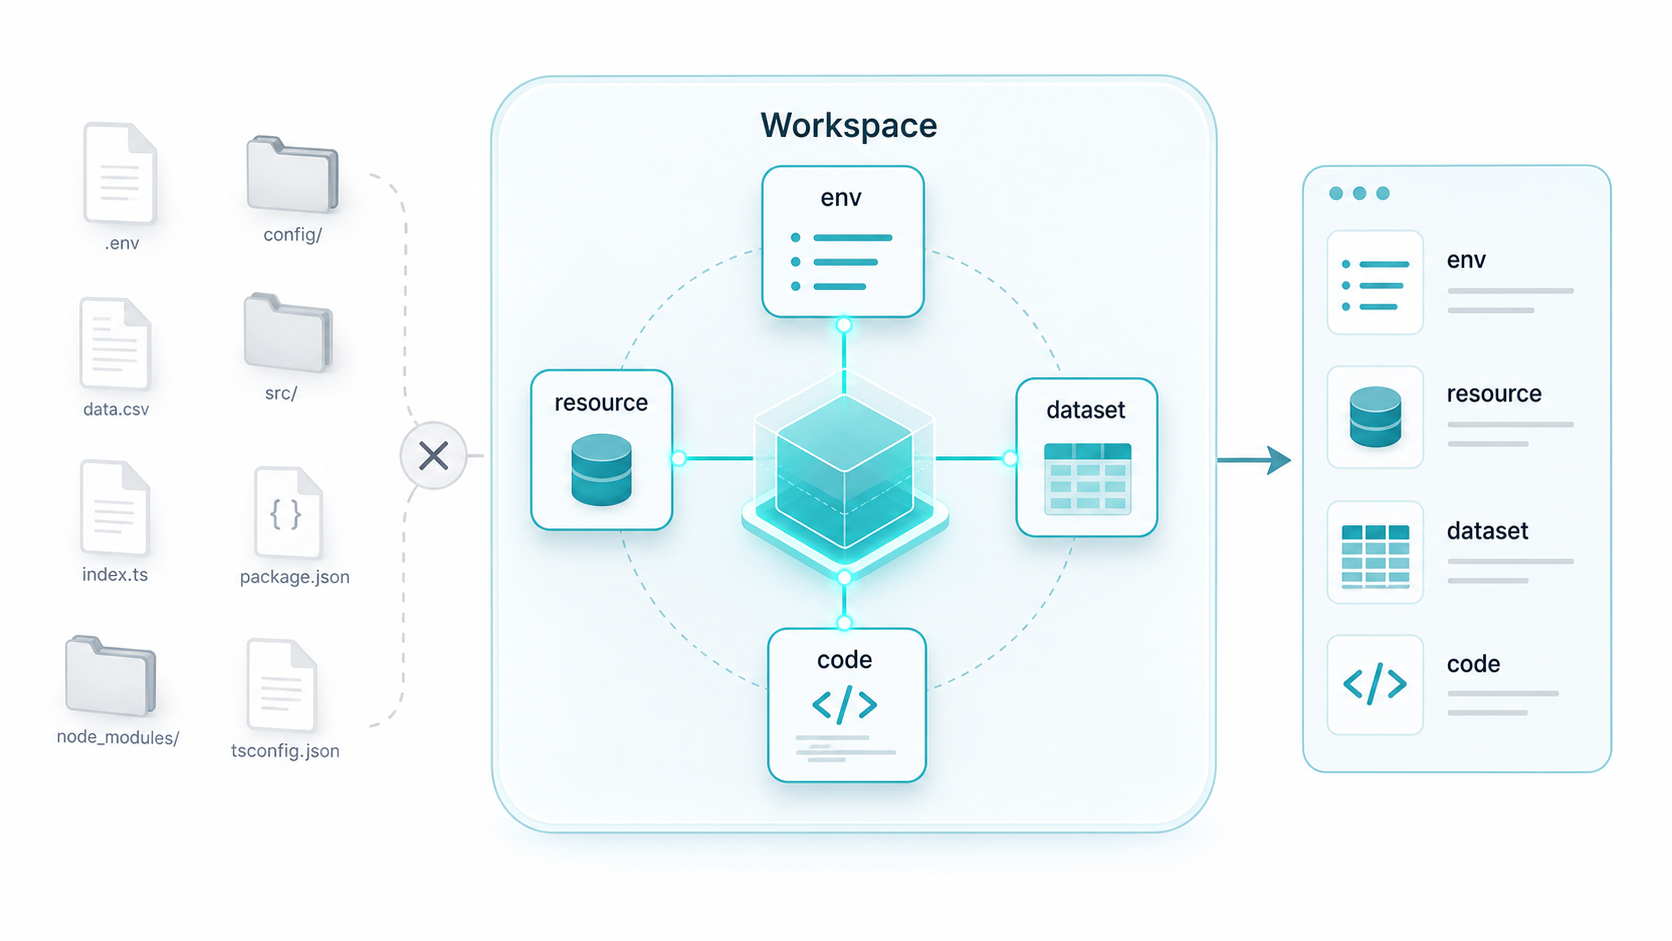
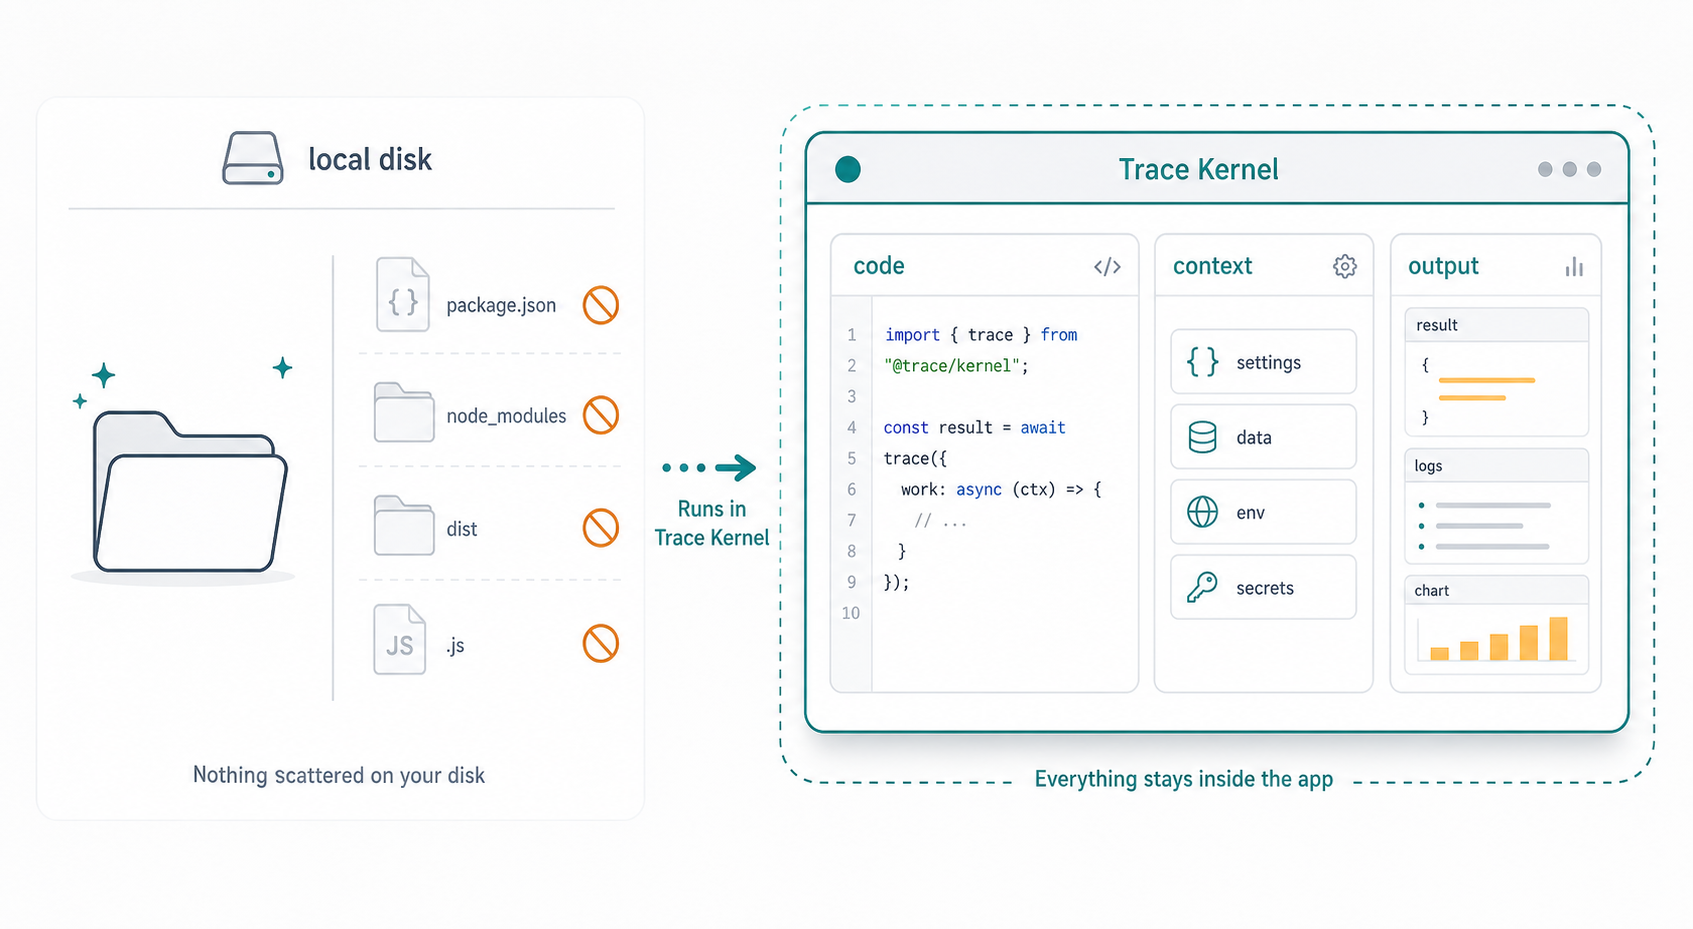
save

diff --git a/homepage/src/styles/starlight.css b/homepage/src/styles/starlight.css
@@ -104,6 +104,12 @@
   width: min(100%, 48rem);
 }
 
+.hero .tagline {
+  font-size: clamp(1.25rem, 1.02rem + 0.52vw, 1.52rem);
+  line-height: 1.8;
+  max-width: 48rem;
+}
+
 .hero .hero-video {
   display: block;
   width: 100%;

diff --git a/homepage/src/content/docs/overview/workflow.md b/homepage/src/content/docs/overview/workflow.md
@@ -13,9 +13,9 @@ Trace Kernelの基本ワークフローは、ワークスペースを開き、co
 5. 必要な結果をコピーして使う
 ```
 
-> **画像メモ:** このページの先頭には、上記5ステップを1本で見せる短いGIFがあるとよい。画面の詳細説明ではなく、Trace Kernelの作業導線を俯瞰できるもの。
+![Trace Kernelの基本ワークフロー](/images/workflow-overview.png)
 
-## 1. ワークスペースを作る
+## 1. ワークスペースを開く
 
 ワークスペースは、Trace Kernelで扱う作業状態です。開始時は、空白のワークスペースから始めるか、保存済みの`.trk`ファイルを開いて再開します。
 
@@ -30,6 +30,12 @@ workspace
 同じ作業を後で再利用したい場合は、ワークスペースを`.trk`ファイルとして保存できます。
 
 ![スタート画面](/screen_shot/スタート.JPG)
+
+ワークスペースを開くと、ワークスペース管理画面に移動します。ここで、プログラムから使う入力データや固定値を `context` として登録し、実行するTypeScriptを `work` として作成します。
+
+![ワークスペース管理画面](/screen_shot/ワークスペース管理.JPG)
+
+画面構成や要素の状態管理は、[ワークスペース](/guide/workspace/)で詳しく扱います。
 
 ## 2. contextを登録する
 
